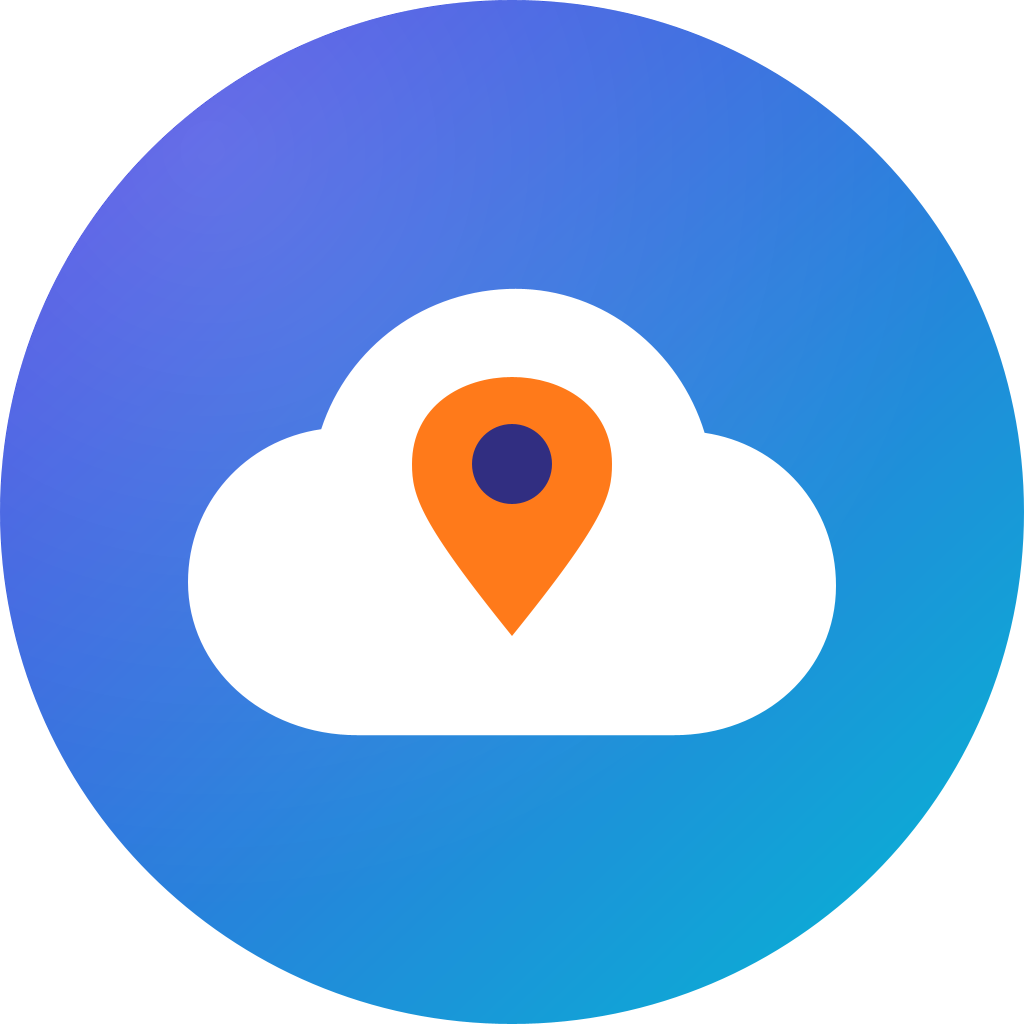
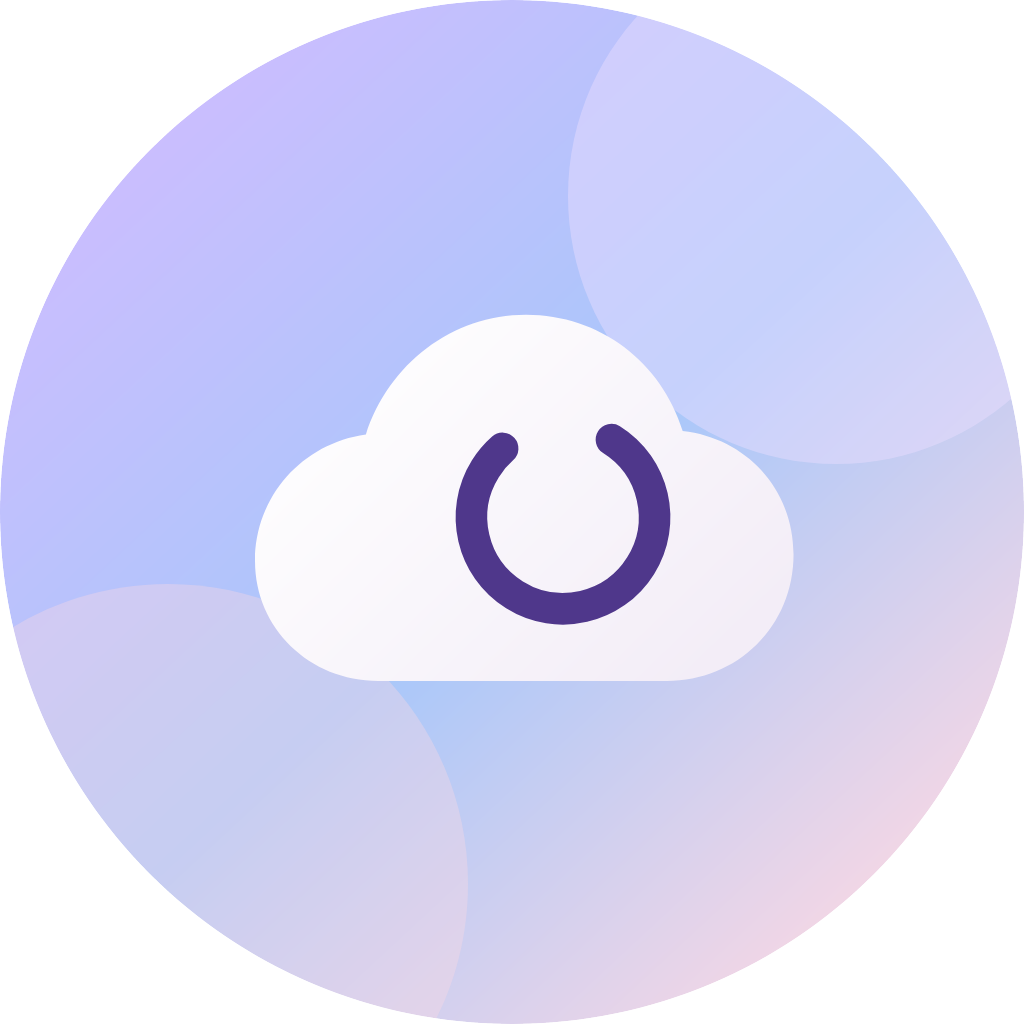
Redraw the brand in the Material You style
Icon, avatar, round avatar and the README lockup now use a lavender to
blue to pink tonal tile, a flat cloud glyph and an open ring in deep
purple.  PNGs are rendered from the SVGs and alpha-masked so the
squircle/round variants stay transparent outside their shape.

diff --git a/README.md b/README.md
@@ -271,7 +271,9 @@ it is intentionally not part of the unit test run.
 
 ## Branding
 
-`assets/branding/` contains the source logo files:
+`assets/branding/` contains the source logo files, redrawn in the Material You
+style: a lavender → blue → pink tonal tile, a flat cloud glyph and an open ring
+in deep purple (accent `#4F378B`).
 
 - `opencloud-icon.svg` / `opencloud-icon-1024.png` / `-512.png` / `-256.png`
 - `opencloud-logo.svg` / `opencloud-logo.png` (icon + wordmark)
